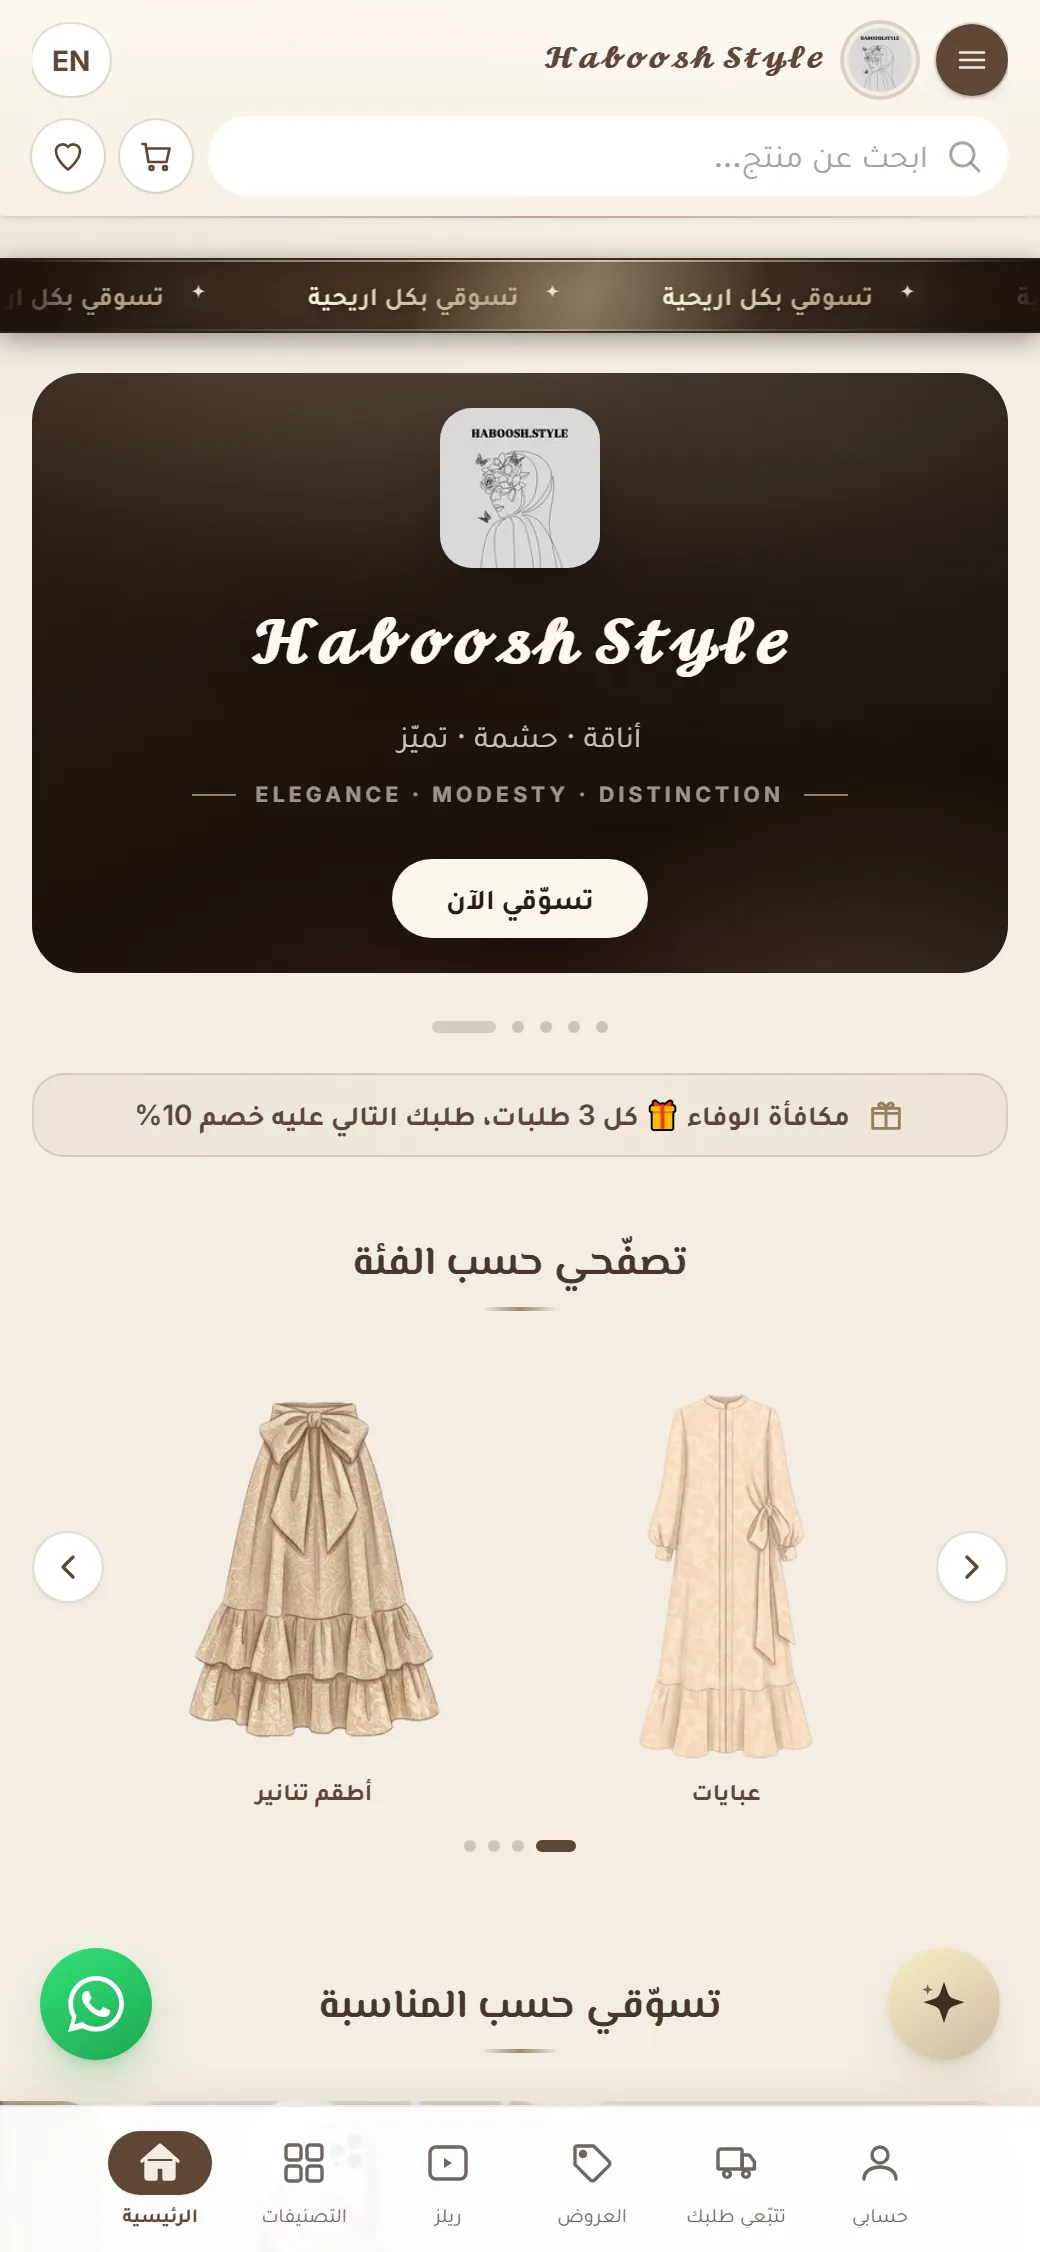
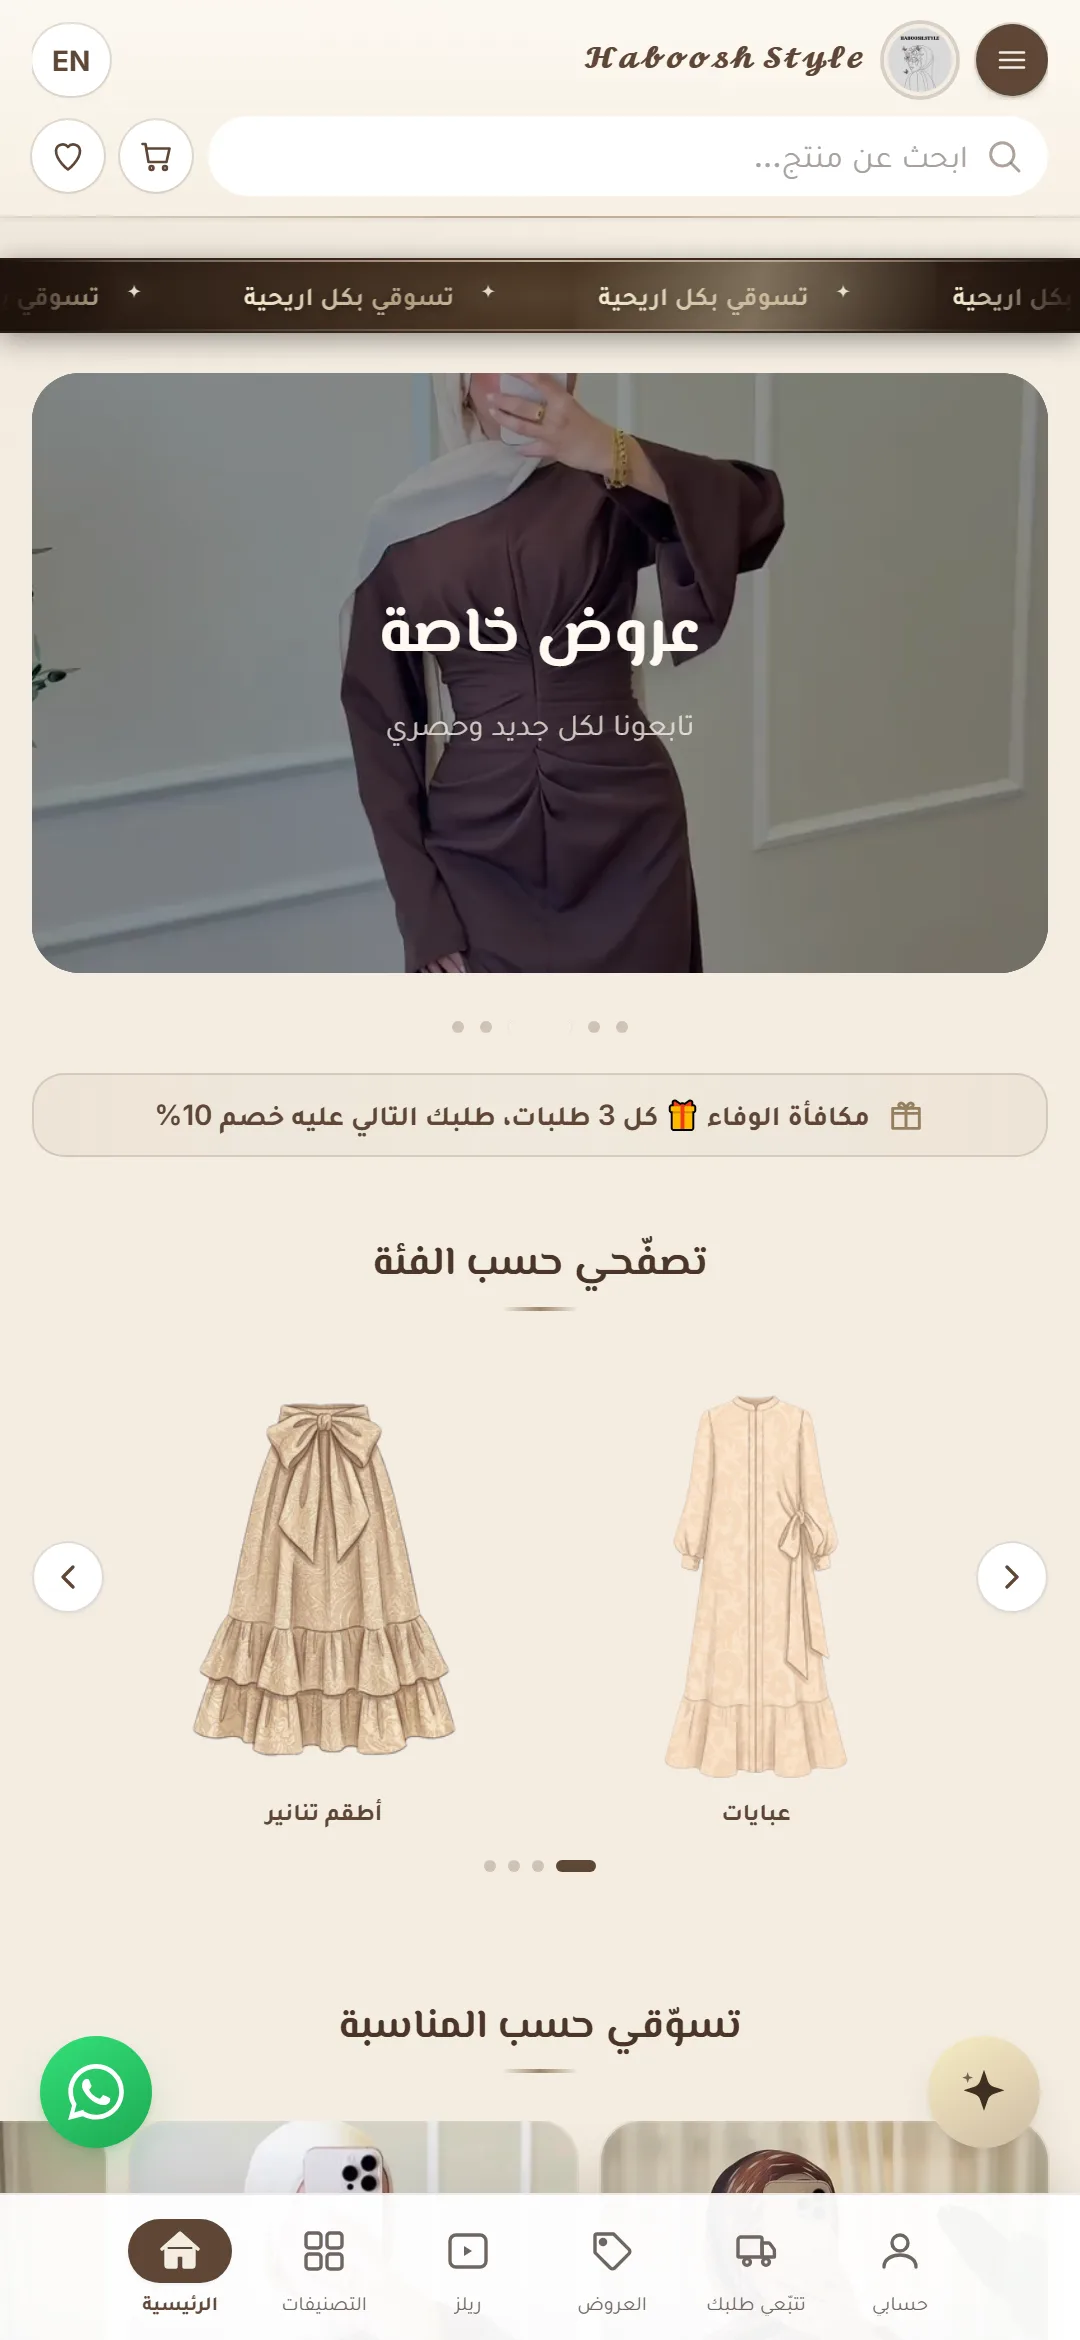
إطارُ آيفون بتفاصيله، وشاشةُ الطلب تقول الحقيقة
── الإطار ──
كان مستطيلاً مدوّراً بحبّةٍ سوداء أعلاه. صار يقلّد الجهاز بما يُميّزه فعلاً:
حافّةٌ من طبقتين (تيتانيوم يلمع عند الحوافّ ويعتم بالمنتصف، وحلقةٌ سوداء
داخلها فيبدو الزجاج غائراً لا ملصقاً)، وانحناءٌ إهليلجيّ متّصل، وجزيرةٌ
ديناميكية بعدسةٍ لها انعكاس، وأزرارُ الجانب بمواضعها — الصامتُ مقابلَ زرّي
الصوت. ونسبةُ 9:19.5 وهي نسبةُ الجهاز الفعلية، محسوبةً لا مقدّرة.

وأعدتُ التقاط اللقطة بـ540×1170 لتطابق النسبة، فلا تُقصّ ولا تُمطّ: قِستُ
النسبتين فوجدتُهما 2.167 كلتيهما.

وحين نظرتُ للنتيجة مكبّرةً وجدتُ ما لا يظهر بالقياس: الجزيرةُ تجلس فوق اسم
المتجر فتغطّيه — وهذا لا يقع بهاتفٍ حقيقيّ لأنّ بينهما شريطَ الحالة. فأضفتُه:
ساعةٌ ومؤشّراتُ إشارةٍ وواي فاي وبطارية، بالاتّجاه اللاتينيّ كما بiOS مهما كانت
لغةُ الصفحة.

── شاشة ما بعد الطلب ──
حفظُ الطلب قد يفشل (شبكة أو خادم)، والشيفرة تبتلع الخطأ وتكمل لواتساب. الاحتياط
نفسُه جيّد — الرسالةُ تصل صاحبةَ المتجر كاملةً. لكنّ الشاشة كانت تقول حينها
«تم استلام طلبك 🎉 … احتفظي برقم الطلب لمتابعته» بلا رقمٍ أصلاً، وتعرض زرَّ
تتبّعٍ يبحث بمرجعٍ لا وجود له، والسلّةُ فُرِّغت فلا سبيل للإعادة.

فتظنّ الزبونة أنّ طلبها مسجّل، ولا تراه صاحبةُ المتجر بلوحتها، ولا يُخصم
المخزون — ولا إشارةَ لأحدٍ أنّ شيئاً تعثّر.

الآن: نجاحٌ حين يُسجَّل الطلب، وحين لا يُسجَّل تقول ما جرى — أنّه ذهب على
واتساب ولم يُسجَّل بالنظام، وأن تحتفظ بالرسالة حتى يُردّ عليها. وزرُّ التتبّع
لا يُعرض بلا رقم.

التحقّق: 320 و375 و1280 — النسبة 2.167 ثابتة، وشريطُ الحالة يتناسب معها، بلا
تمدّدٍ أفقيّ. وعاينتُ الإطار مكبّراً ×4 لأتفقّد الحافّة والجزيرة والأزرار.

diff --git a/client/src/index.css b/client/src/index.css
@@ -3875,35 +3875,124 @@ html.dark .theme-pub .bz-oldprice { color: #a2957f; }
   justify-content: center;
   margin-top: clamp(2rem, 5vw, 3rem);
 }
+/* الإطارُ يقلّد آيفون بتفاصيله لا بمستطيلٍ مدوّر:
+   حافّةٌ من طبقتين (تيتانيوم فاتح يعكس الضوء، وحلقةٌ داكنة داخله)، ونسبةُ
+   19.5:9 وهي نسبةُ الجهاز الفعلية، وانحناءٌ متّصلٌ بين الحافّة والشاشة —
+   وأزرارُ الجانب بمواضعها الحقيقية: الصامت ثمّ زرّا الصوت يميناً بالمقلوب
+   (فالإطار مرآةٌ للجهاز الممسوك)، وزرُّ التشغيل مقابلَها.
+   والنسبةُ محسوبةٌ لا مقدّرة: 19.5/9 = 2.1667. */
 .bz-phone-body {
   position: relative;
   width: min(19rem, 78vw);
-  aspect-ratio: 520 / 1126;
-  border-radius: clamp(1.6rem, 5vw, 2.4rem);
-  padding: 0.5rem;
-  background: linear-gradient(160deg, #4a3a2c, #241b12 60%, #120c07);
+  aspect-ratio: 9 / 19.5;
+  border-radius: 15.5%/7.5%;
+  padding: 0.42rem;
+  /* حافّةُ التيتانيوم: فاتحةٌ عند الحوافّ حيث يلمع الضوء، داكنةٌ بالمنتصف */
+  background:
+    linear-gradient(115deg, #6f6a63 0%, #b9b4ac 6%, #7d7871 14%, #4a4640 50%,
+                    #7d7871 86%, #b9b4ac 94%, #6f6a63 100%);
   box-shadow:
-    0 40px 80px -30px rgba(0, 0, 0, 0.75),
-    inset 0 0 0 1px rgba(244, 237, 226, 0.14);
+    0 42px 84px -32px rgba(0, 0, 0, 0.78),
+    0 8px 22px -10px rgba(0, 0, 0, 0.45);
 }
-.bz-phone-body img {
+/* الحلقةُ السوداء بين المعدن والشاشة — بها يبدو الزجاج غائراً لا ملصقاً */
+.bz-phone-body::before {
+  content: '';
+  position: absolute;
+  inset: 0.42rem;
+  border-radius: 13.5%/6.6%;
+  background: #05060a;
+  box-shadow: inset 0 0 0 1px rgba(255, 255, 255, 0.07);
+}
+/* الشاشة: شريطُ حالةٍ ثمّ اللقطة — عمودٌ واحد.
+   بلا شريطٍ كانت الجزيرةُ تجلس فوق اسم المتجر فتغطّيه، وهذا لا يحدث بهاتفٍ
+   حقيقيّ: هناك شريطُ الحالة يفصل الجزيرةَ عن المحتوى. */
+.bz-phone-screen {
+  position: relative;
+  z-index: 1;
+  display: flex;
   height: 100%;
+  flex-direction: column;
+  overflow: hidden;
+  border-radius: 13.5%/6.6%;
+  background: #F4EDE2;
+}
+.bz-phone-status {
+  display: flex;
+  flex-shrink: 0;
+  align-items: center;
+  justify-content: space-between;
+  height: 5.4%;
+  padding-inline: 8%;
+  /* الساعةُ يساراً والمؤشّراتُ يميناً — كما بiOS مهما كان اتّجاه اللغة */
+  direction: ltr;
+  font-size: 0.62rem;
+  font-weight: 700;
+  color: #241b12;
+  letter-spacing: 0.01em;
+}
+.bz-phone-status svg { display: block; }
+.bz-phone-body img {
+  position: relative;
+  z-index: 1;
+  min-height: 0;
+  flex: 1;
+  height: auto;
   width: 100%;
-  border-radius: clamp(1.15rem, 3.8vw, 1.95rem);
+  border-radius: 0;
   object-fit: cover;
   object-position: top center;
   display: block;
 }
-/* شقُّ الكاميرا — تفصيلٌ صغير يجعل الإطار يُقرأ هاتفاً فوراً */
+
+/* الجزيرة الديناميكية: حبّةٌ سوداء مصمتة، وبداخلها عدسةٌ لها انعكاس */
 .bz-phone-notch {
   position: absolute;
   inset-inline: 0;
-  top: 0.95rem;
-  z-index: 2;
-  width: 28%;
+  top: 1.35%;
+  z-index: 3;
+  display: flex;
+  align-items: center;
+  justify-content: flex-end;
+  width: 27%;
   margin-inline: auto;
-  height: 0.42rem;
+  height: 3.1%;
+  min-height: 18px;
+  padding-inline-end: 7%;
   border-radius: 999px;
-  background: rgba(0, 0, 0, 0.55);
+  background: #05060a;
 }
+.bz-phone-notch::after {
+  content: '';
+  width: 21%;
+  aspect-ratio: 1;
+  border-radius: 50%;
+  background: radial-gradient(circle at 32% 28%, #3b4a63 0%, #131a26 46%, #05070c 100%);
+  box-shadow: inset 0 0 0 1px rgba(120, 150, 190, 0.28);
+}
+
+/* أزرارُ الجانب — نفسُ لون الحافّة فتبدو مقتطعةً منها لا ملصقةً عليها */
+.bz-phone-body::after {
+  content: '';
+  position: absolute;
+  inset-inline-end: -2px;
+  top: 17%;
+  width: 2px;
+  height: 30%;
+  border-radius: 2px;
+  background: linear-gradient(180deg,
+    #9a958d 0 9%, transparent 9% 15%,
+    #9a958d 15% 41%, transparent 41% 47%,
+    #9a958d 47% 73%, transparent 73% 100%);
+}
+.bz-phone-side {
+  position: absolute;
+  inset-inline-start: -2px;
+  top: 27%;
+  width: 2px;
+  height: 13%;
+  border-radius: 2px;
+  background: #9a958d;
+}
+
 @media (min-width: 768px) { .bz-phone-body { width: 21rem; } }

diff --git a/client/src/components/CartDrawer.jsx b/client/src/components/CartDrawer.jsx
@@ -335,18 +335,30 @@ export default function CartDrawer() {
               <><CartIcon className="h-5 w-5" /> {t('cart.title')}
                 {count > 0 && <span className="rounded-full bg-wine/15 px-2 py-0.5 text-sm font-bold text-wine">{count}</span>}
               </>
-            ) : view === 'done' ? t('co.doneTitle') : t('co.title')}
+            ) : view === 'done' ? (doneRef ? t('co.doneTitle') : t('co.donePartialTitle')) : t('co.title')}
           </h2>
           <CloseButton onClick={close} variant="wine" />
         </div>
 
         {view === 'done' ? (
-          /* شاشة نجاح الطلب: تأكيد واضح + رقم الطلب + تتبّع (السلة كانت تختفي بصمت) */
+          /* شاشة ما بعد الطلب.
+             حفظُ الطلب قد يفشل (شبكة أو خادم)، والرسالةُ تذهب لواتساب على أيّ
+             حال — وهذا احتياطٌ جيّد يُبقي الطلب واصلاً. لكنّ الشاشة كانت تقول
+             «تم استلام طلبك 🎉 … احتفظي برقم الطلب لمتابعته» بلا رقمٍ أصلاً،
+             وتعرض زرَّ تتبّعٍ لن يجد شيئاً — والسلّة فُرِّغت فلا سبيل للإعادة.
+             فتظنّ الزبونة أنّ طلبها مسجّل، ولا تراه صاحبةُ المتجر بلوحتها.
+             الآن: نجاحٌ حين يُسجَّل، وصدقٌ حين لا يُسجَّل. */
           <div className="animate-fade-up flex flex-1 flex-col items-center justify-center gap-4 p-8 text-center">
-            <span className="flex h-20 w-20 items-center justify-center rounded-full bg-emerald-500/15 ring-2 ring-emerald-400/40">
-              <CheckIcon className="h-10 w-10 text-emerald-300" />
-            </span>
-            <p className="text-sm leading-relaxed text-stone-300">{t('co.doneMsg')}</p>
+            {doneRef ? (
+              <span className="flex h-20 w-20 items-center justify-center rounded-full bg-emerald-500/15 ring-2 ring-emerald-400/40">
+                <CheckIcon className="h-10 w-10 text-emerald-300" />
+              </span>
+            ) : (
+              <span className="bz-tone-amber flex h-20 w-20 items-center justify-center rounded-full">
+                <WhatsAppIcon className="h-10 w-10" />
+              </span>
+            )}
+            <p className="text-sm leading-relaxed text-stone-300">{doneRef ? t('co.doneMsg') : t('co.donePartialMsg')}</p>
             {doneRef && (
               <button
                 type="button"
@@ -365,6 +377,8 @@ export default function CartDrawer() {
               </button>
             )}
             <div className="mt-2 flex w-full flex-col gap-2">
+              {/* بلا رقمٍ لا تتبّع: الصفحة تبحث بالمرجع فلا تجد شيئاً */}
+              {doneRef && (
               <Link
                 to={doneStore ? `/track?store=${doneStore}` : '/track'}
                 onClick={close}
@@ -373,6 +387,7 @@ export default function CartDrawer() {
               >
                 {t('co.doneTrack')}
               </Link>
+              )}
               <button onClick={close} className="w-full rounded-full border border-cream/20 py-3 font-semibold text-cream/80 transition hover:bg-cream/10">
                 {t('co.doneKeepShopping')}
               </button>

diff --git a/client/src/pages/Landing.jsx b/client/src/pages/Landing.jsx
@@ -427,14 +427,41 @@ export default function Landing() {
             <div className="bz-phone">
               <div className="bz-phone-body">
                 <span className="bz-phone-notch" aria-hidden="true" />
-                <img
-                  src="/store-preview.webp"
-                  alt={t('landing.seeTitle')}
-                  loading="lazy"
-                  decoding="async"
-                  width={520}
-                  height={1126}
-                />
+                <span className="bz-phone-side" aria-hidden="true" />
+                <div className="bz-phone-screen">
+                  {/* شريطُ الحالة: ساعةٌ ومؤشّرات. بدونه كانت الجزيرةُ تجلس
+                      فوق اسم المتجر فتغطّيه — وهذا لا يقع بهاتفٍ حقيقيّ. */}
+                  <div className="bz-phone-status" aria-hidden="true">
+                    <span>9:41</span>
+                    <span className="flex items-center gap-[3px]">
+                      {/* إشارة · واي فاي · بطارية */}
+                      <svg viewBox="0 0 18 12" width="13" height="9" fill="currentColor">
+                        <rect x="0" y="8.5" width="3" height="3.5" rx="1" />
+                        <rect x="4.5" y="6" width="3" height="6" rx="1" />
+                        <rect x="9" y="3" width="3" height="9" rx="1" />
+                        <rect x="13.5" y="0" width="3" height="12" rx="1" opacity="0.35" />
+                      </svg>
+                      <svg viewBox="0 0 16 12" width="12" height="9" fill="none" stroke="currentColor" strokeWidth="1.6" strokeLinecap="round">
+                        <path d="M1 4.2a10 10 0 0 1 14 0" />
+                        <path d="M3.6 7a6.4 6.4 0 0 1 8.8 0" />
+                        <circle cx="8" cy="10" r="0.9" fill="currentColor" stroke="none" />
+                      </svg>
+                      <svg viewBox="0 0 26 12" width="18" height="9" fill="none">
+                        <rect x="0.6" y="0.6" width="21" height="10.8" rx="3" stroke="currentColor" strokeWidth="1.1" opacity="0.5" />
+                        <rect x="2.2" y="2.2" width="15" height="7.6" rx="1.8" fill="currentColor" />
+                        <path d="M23.4 4.2v3.6a2 2 0 0 0 0-3.6Z" fill="currentColor" opacity="0.5" />
+                      </svg>
+                    </span>
+                  </div>
+                  <img
+                    src="/store-preview.webp"
+                    alt={t('landing.seeTitle')}
+                    loading="lazy"
+                    decoding="async"
+                    width={540}
+                    height={1170}
+                  />
+                </div>
               </div>
             </div>
           </Reveal>

diff --git a/client/index.html b/client/index.html
@@ -98,6 +98,10 @@
     
     
     
+    
+    
+    
+    
     <!-- hero-preload:start -->
     <link rel="preload" as="image" fetchpriority="high" href="https://images.unsplash.com/photo-1490481651871-ab68de25d43d?w=1440&amp;q=80&amp;auto=format&amp;fit=crop"
       imagesrcset="https://images.unsplash.com/photo-1490481651871-ab68de25d43d?w=640&amp;q=80&amp;auto=format&amp;fit=crop 640w, https://images.unsplash.com/photo-1490481651871-ab68de25d43d?w=828&amp;q=80&amp;auto=format&amp;fit=crop 828w, https://images.unsplash.com/photo-1490481651871-ab68de25d43d?w=1080&amp;q=80&amp;auto=format&amp;fit=crop 1080w, https://images.unsplash.com/photo-1490481651871-ab68de25d43d?w=1440&amp;q=80&amp;auto=format&amp;fit=crop 1440w, https://images.unsplash.com/photo-1490481651871-ab68de25d43d?w=1920&amp;q=80&amp;auto=format&amp;fit=crop 1920w"
